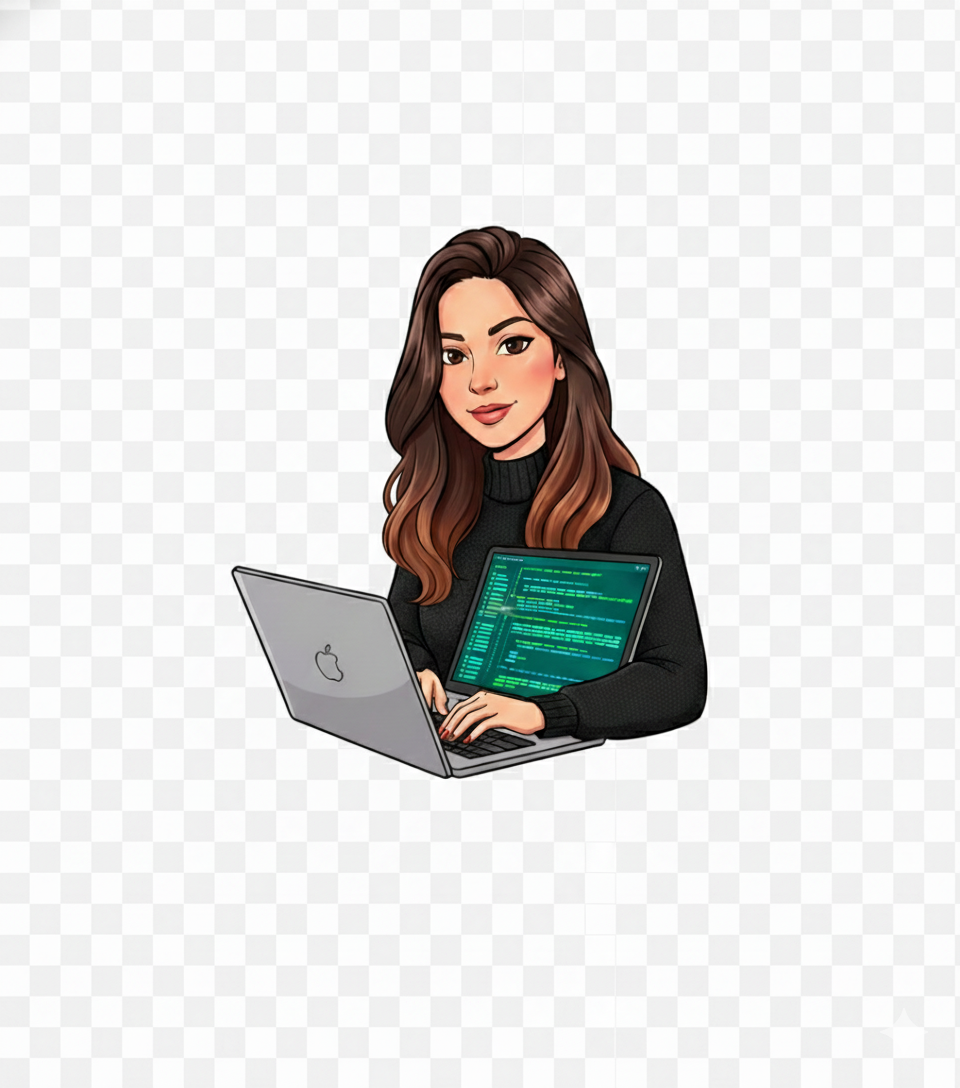
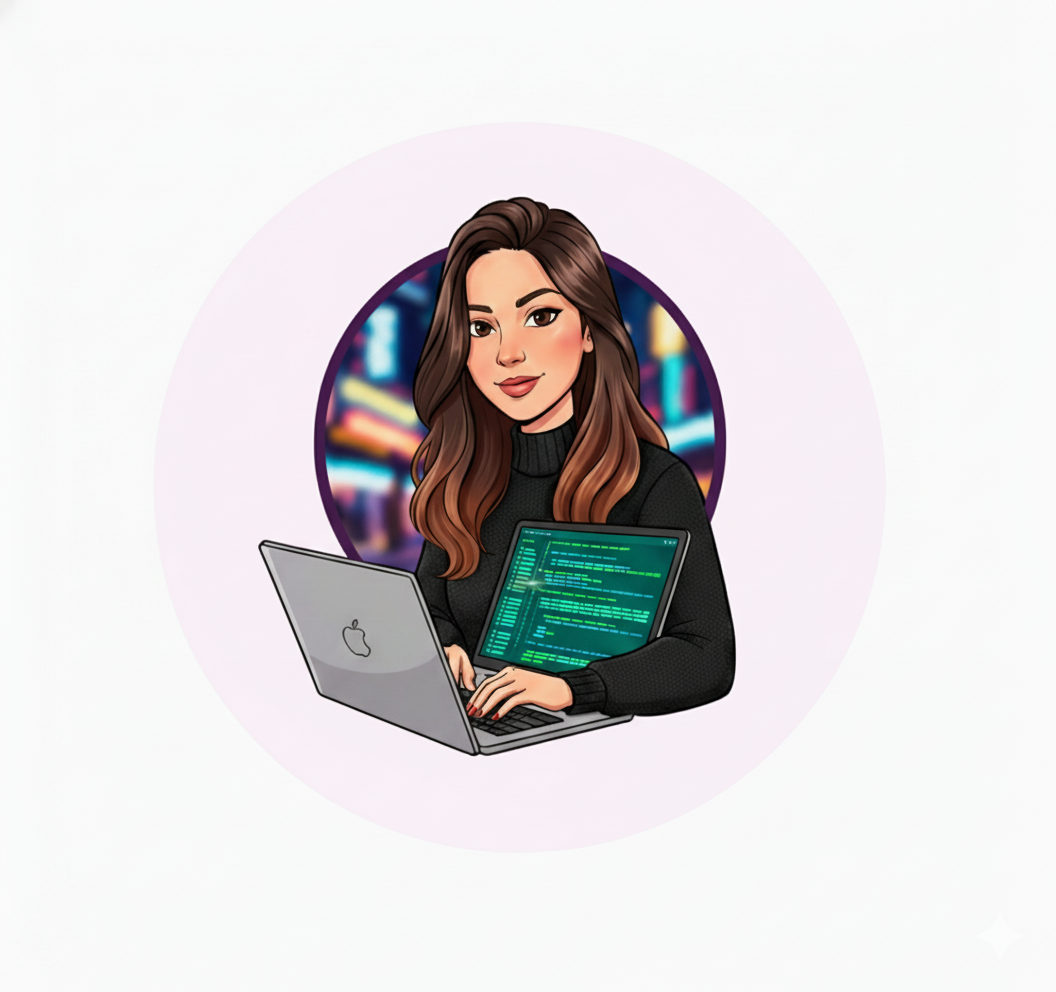
Changes

Changed region(s): [[0.2188, 0.1875, 0.75, 0.7812]]

diff --git a/src/components/Hero.tsx b/src/components/Hero.tsx
@@ -14,13 +14,11 @@ const Hero = () => {
       <div className="container mx-auto px-6 relative z-10">
         <div className="max-w-4xl mx-auto text-center animate-fade-in">
           <div className="mb-6">
-            <div className="w-48 h-48 mx-auto rounded-full bg-gradient-primary p-1 shadow-xl">
-              <img 
-                src={profileAvatar} 
-                alt="Allany Filgueiras - Software Engineer" 
-                className="w-full h-full rounded-full object-cover bg-background"
-              />
-            </div>
+            <img 
+              src={profileAvatar} 
+              alt="Allany Filgueiras - Software Engineer" 
+              className="w-48 h-48 mx-auto object-contain"
+            />
           </div>
           
           <h1 className="font-display text-5xl md:text-7xl font-bold text-foreground mb-6">
